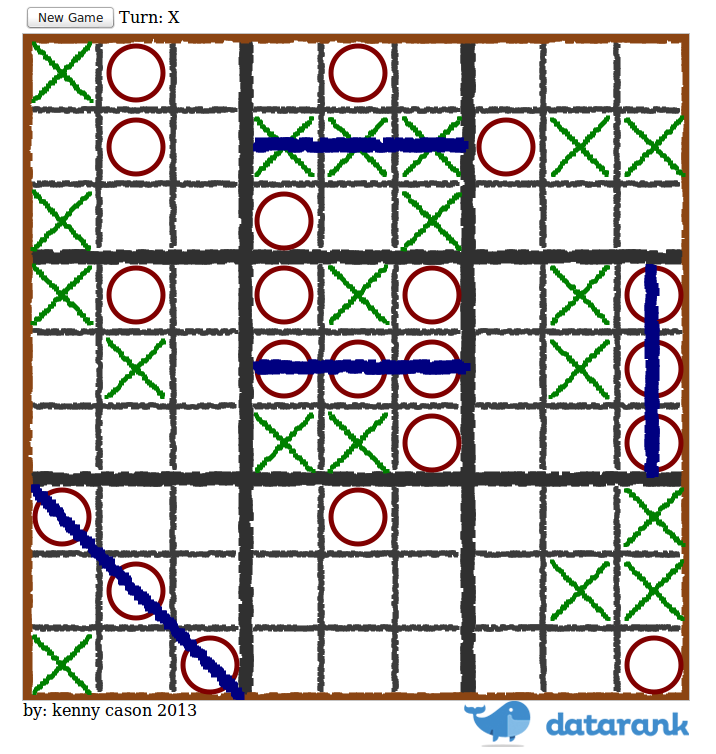
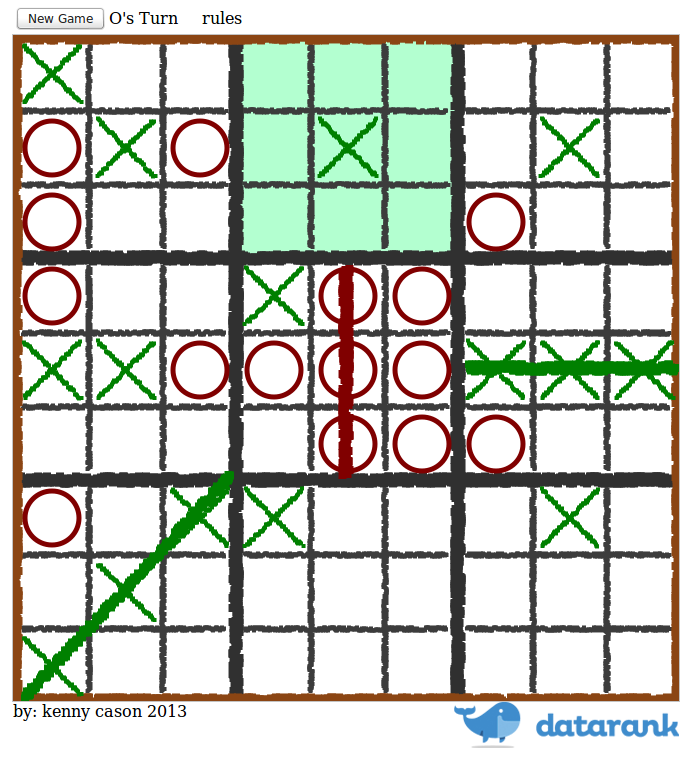
Added hilighting

diff --git a/TicTacToe.js b/TicTacToe.js
@@ -162,6 +162,15 @@ function TicTacToe() {
 		this.nextBoard = [lx, ly];
 	}
 	
+	this.highlightBoard = function() {
+		if(this.nextBoard == null) {
+			$("#board").css("background-position", "-1000px -1000px");
+		} else {
+			var pos = (this.nextBoard[0]*222) + "px " + (this.nextBoard[1]*222) + "px";
+			$("#board").css("background-position", pos);
+		}
+	}
+	
 	this.handleWins = function(x, y, turn) {
 		var w = $("#board").width() / 3;
 		var h = $("#board").height() / 3;
@@ -175,7 +184,11 @@ function TicTacToe() {
 		
 		// local wins
 		// horizontal
-		this.paper.setColor(new Color(0,0,128));
+		if(turn == 2) {
+			this.paper.setColor(new Color(0,128,0));
+		} else if(turn == 1) {
+			this.paper.setColor(new Color(128,0,0));
+		}
 		this.paper.pencil = this.fatPencil;
 		if(board[0][0] == turn && board[1][0] == turn && board[2][0] == turn) {
 			this.paper.line4f(dX+8, dY + h/3/2-4, dX + w-8, dY + h/3/2-4);
@@ -218,7 +231,6 @@ function TicTacToe() {
 		
 		// global wins
 		// horizontal
-		this.paper.setColor(new Color(0,0,0));
 		this.paper.pencil = this.superFatPencil;
 		if((this.wins[0][0] == turn && this.wins[1][0] == turn && this.wins[2][0] == turn)
 		  || (this.wins[0][1] == turn && this.wins[1][1] == turn && this.wins[2][1] == turn) 
@@ -264,11 +276,6 @@ function TicTacToe() {
 			var x = e.clientX - offset.left;
 			var y = e.clientY - offset.top;
 
-			// account for filled squares
-			if(board.nextBoard != null && board.isSubBoardFull(board.getCurrentSubBoard())) {
-				board.nextBoard = null;
-			}
-
 			var moved = board.move(x, y);
 			if(moved) {
 				if(!board.gameOver) {
@@ -276,6 +283,12 @@ function TicTacToe() {
 				}
 				board.switchTurns();
 			}
+			
+			// account for filled squares
+			if(board.nextBoard != null && board.isSubBoardFull(board.getCurrentSubBoard())) {
+				board.nextBoard = null;
+			}
+			board.highlightBoard();
 		}
 	});
 	

diff --git a/index.html b/index.html
@@ -35,9 +35,13 @@
 				</tr>
 			</table>
 		</div>
-        <canvas id="board" width="666" height="666" style="border:1px solid #c3c3c3;">
-            Your browser does not support the canvas element.
-        </canvas>
+		
+		<div id="canvas-wrap">
+			<canvas id="board" width="666" height="666" style="border:1px solid #c3c3c3;">
+				Your browser does not support the canvas element.
+			</canvas>
+			<div id="overlay"></div>
+		</div>
 		<div id="footer">
 			<div style="float:left"><a href="http://ken-soft.com/" target="_blank">by: kenny cason 2013</a></div>
 			<div style="float:right"><a href="http://datarank.com/" target="_blank"><img id="logo" src="datarank_logo.png"/></a></div>
@@ -45,6 +49,13 @@
     </body>
 	
     <style type="text/css">
+		
+		#board {
+			background-image: url(highlight.png);
+			background-repeat: no-repeat;
+			background-position: -1000px -1000px;
+		} 
+
 
         #board {
             margin-left: auto;
